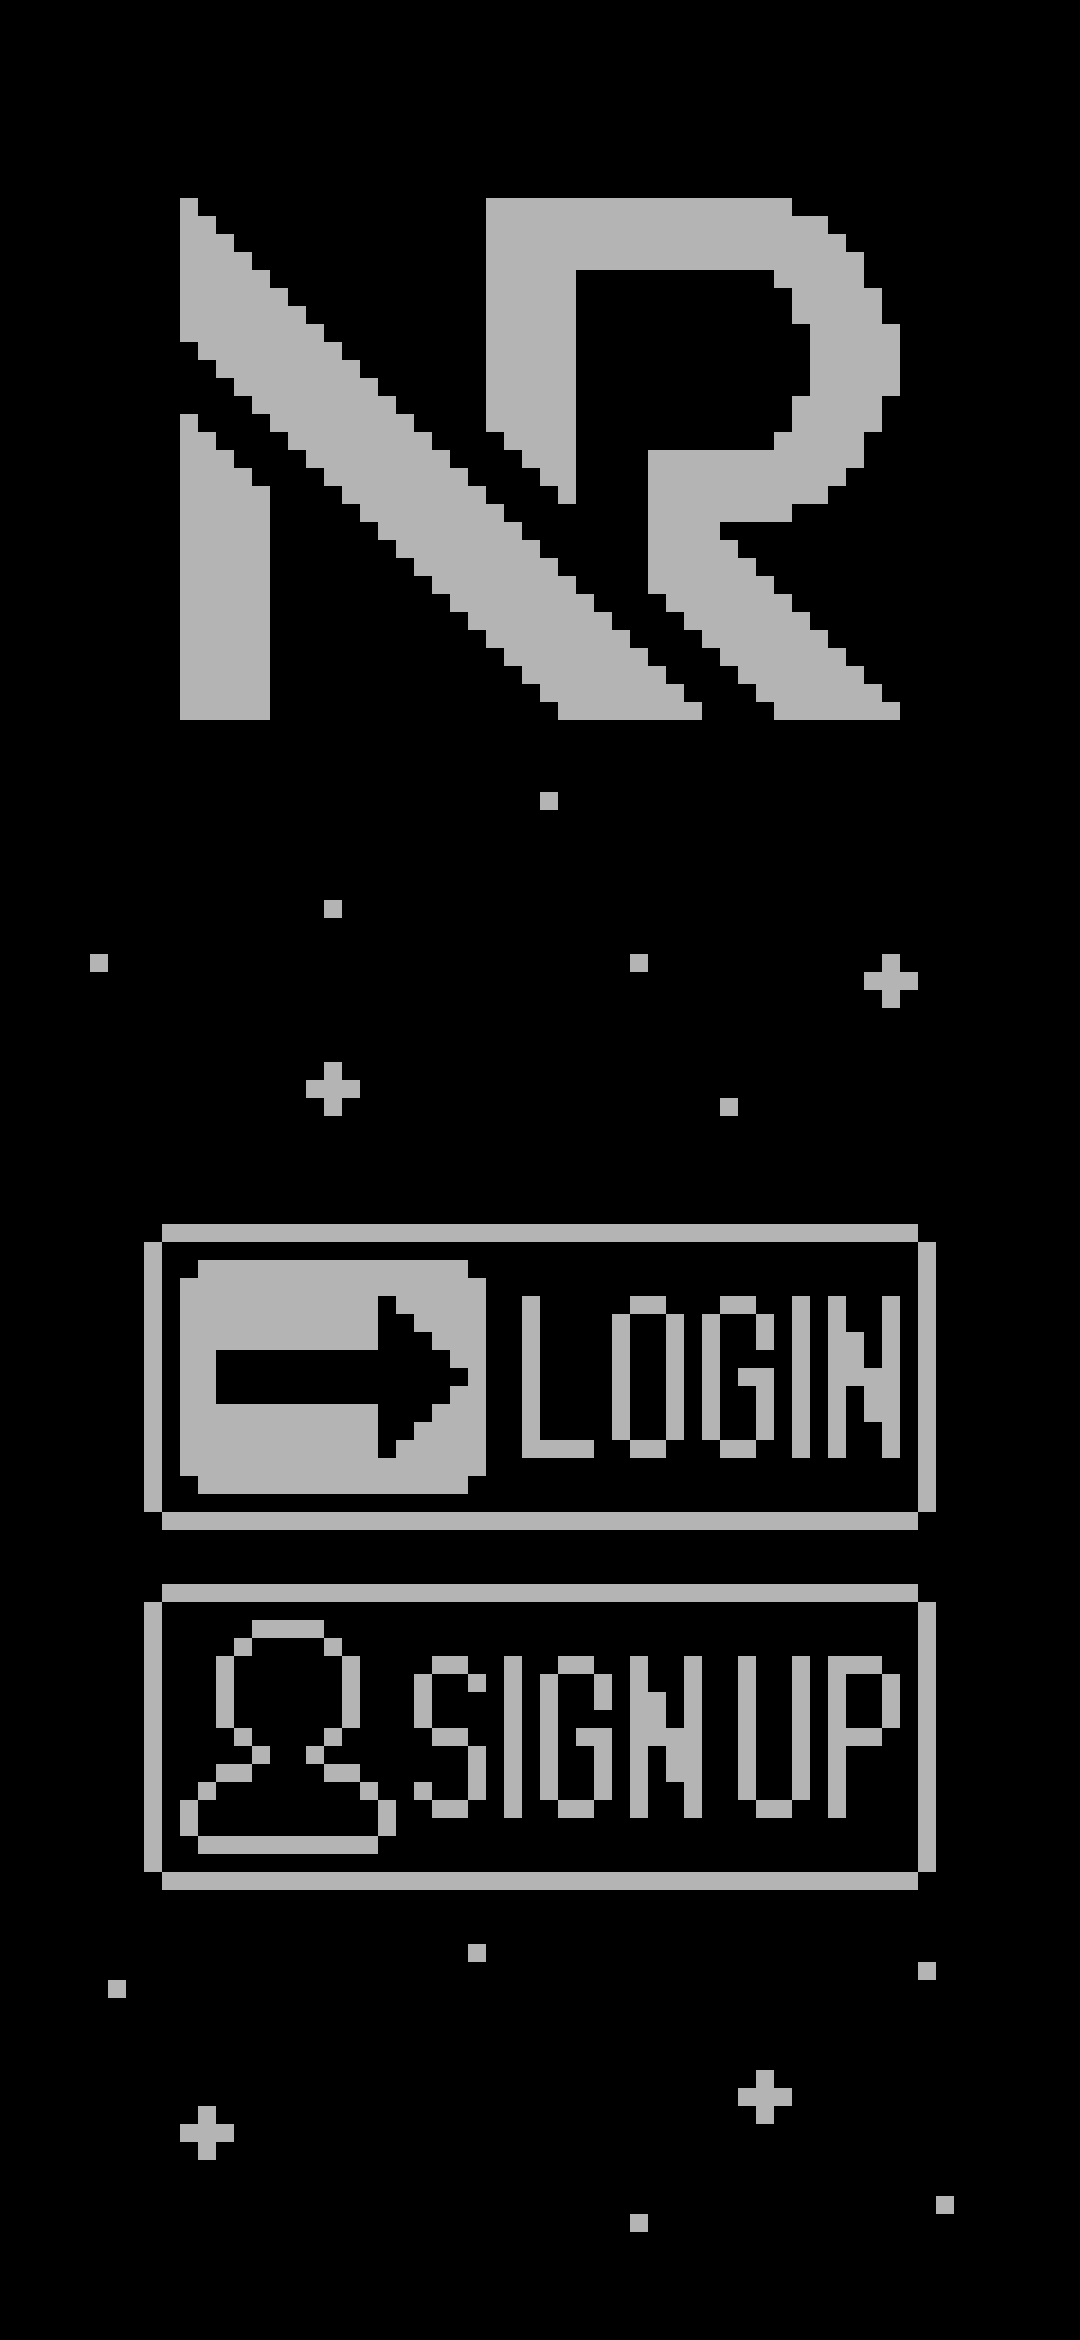
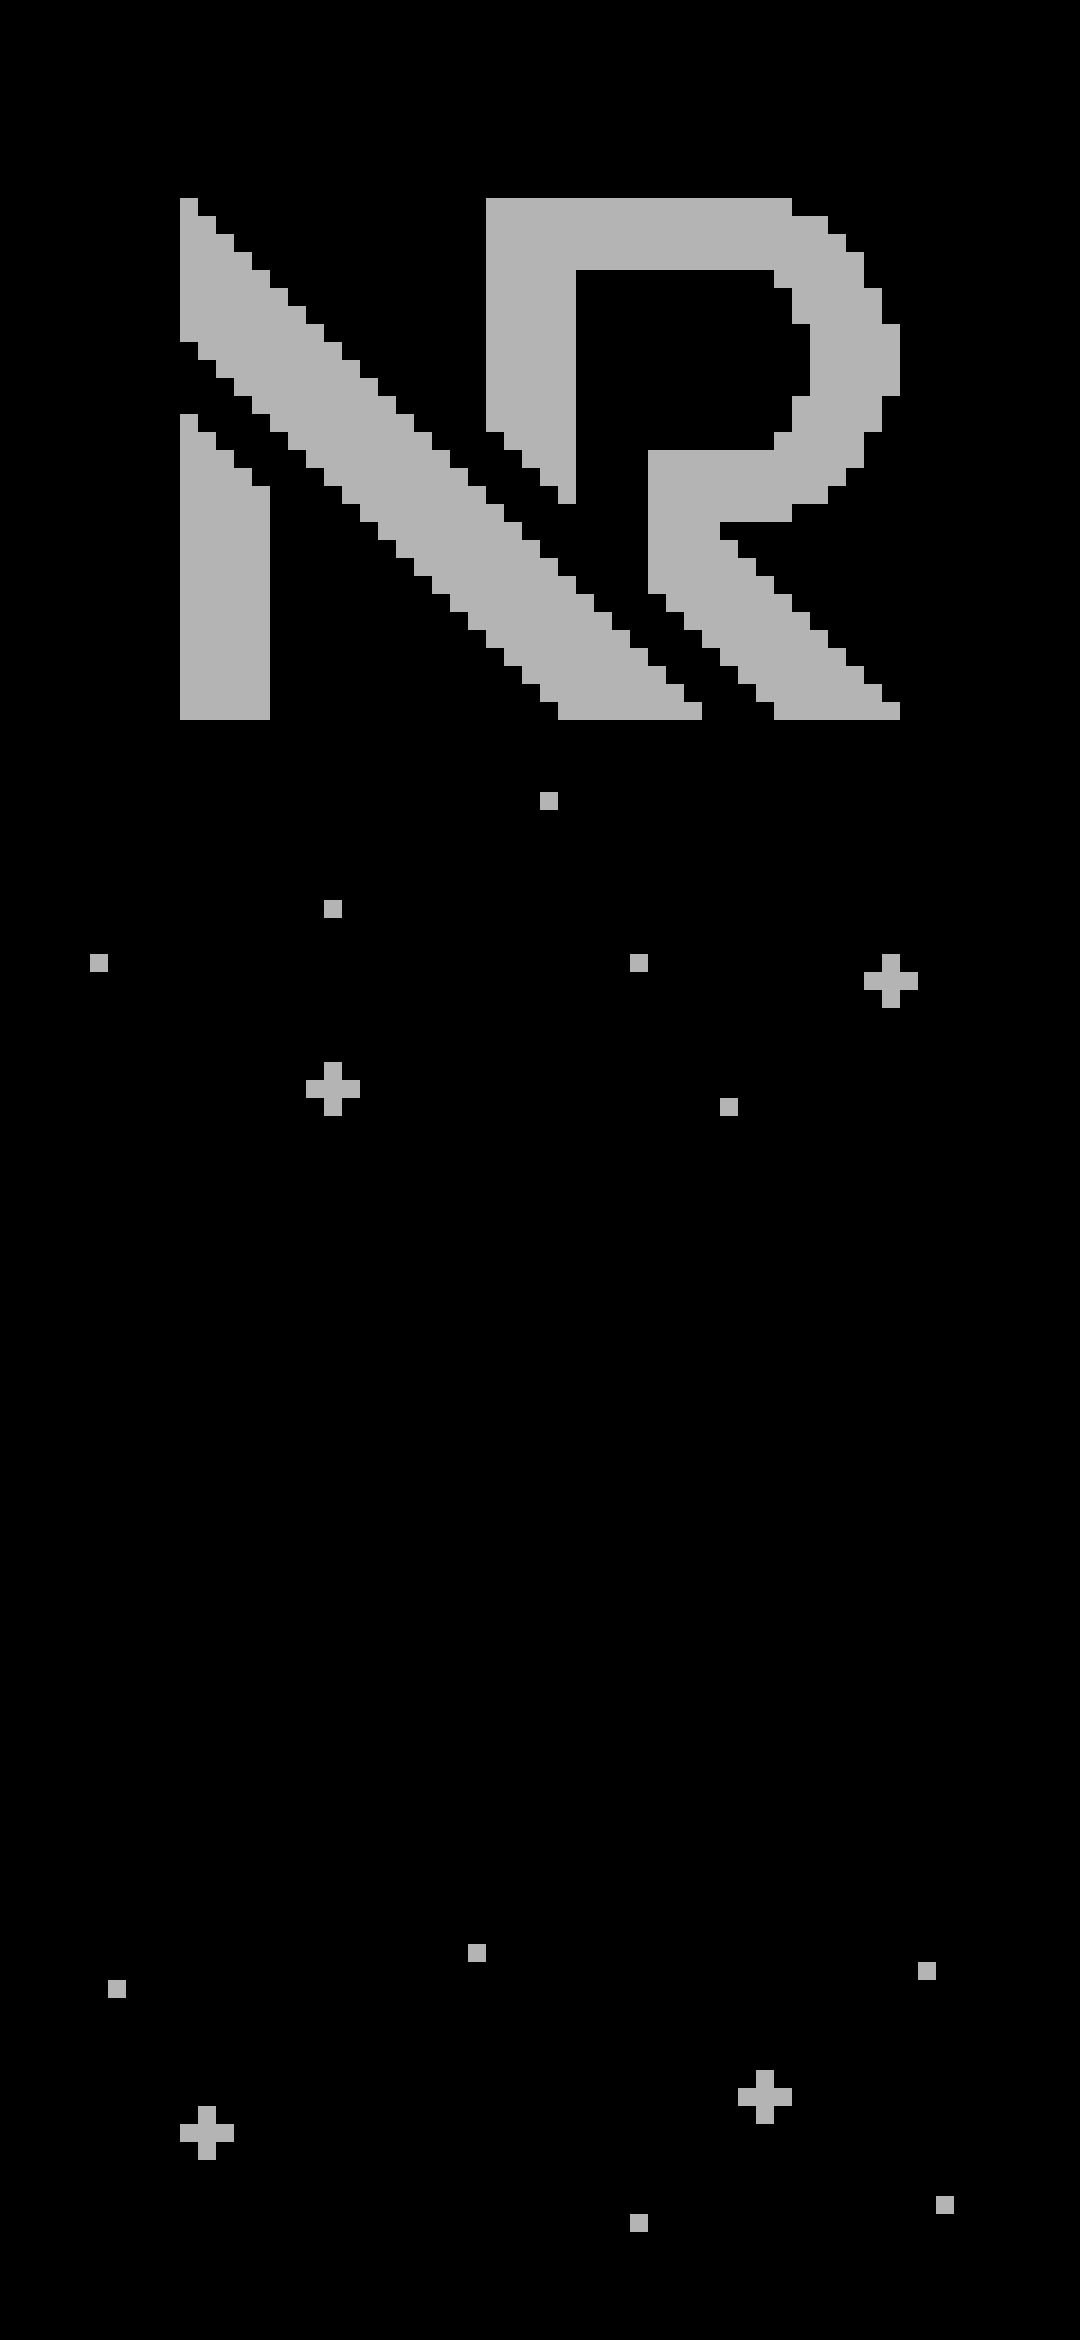
working on things

Changed region(s): [[0.1222, 0.4991, 0.8861, 0.8111]]

diff --git a/NonogramApp/Views/LevelSelectPage.xaml b/NonogramApp/Views/LevelSelectPage.xaml
@@ -10,19 +10,33 @@
     BackgroundImageSource="pixelbg.png"
     Shell.NavBarIsVisible="False">
     <VerticalStackLayout>
-        <Picker
-            Title="Joe Biden"
-            Margin="0,7,0,0"
-            FontSize="20"
-            HeightRequest="50"
-            HorizontalOptions="Center"
-            HorizontalTextAlignment="Center"
-            ItemsSource="{Binding SizeFilters}"
-            SelectedItem="{Binding SelectedSize}"
-            TextColor="White"
-            TitleColor="White"
-            VerticalOptions="Center"
-            WidthRequest="70" />
+        <Grid>
+            <CheckBox HorizontalOptions="Start" Color="#a9a9a9" IsChecked="{Binding ShowUncompletedLevels}"/>
+            <HorizontalStackLayout HorizontalOptions="End">
+                <Label Text="Filter by size:" TextColor="White" VerticalOptions="Center" Margin="0,8,8,0" FontSize="20"/>
+                <Border
+                    Margin="0,8,8,0"
+                    BackgroundColor="#a9a9a9"
+                    HeightRequest="28"
+                    HorizontalOptions="Center"
+                    StrokeShape="RoundRectangle 5,5,5,5"
+                    VerticalOptions="Center">
+                    <Picker
+                        Title="Joe Biden"
+                        Margin="0,7,0,0"
+                        FontSize="20"
+                        HeightRequest="50"
+                        HorizontalOptions="Center"
+                        HorizontalTextAlignment="Center"
+                        ItemsSource="{Binding SizeFilters}"
+                        SelectedItem="{Binding SelectedSize}"
+                        TextColor="White"
+                        TitleColor="White"
+                        VerticalOptions="Center"
+                        WidthRequest="70" />
+                </Border>
+            </HorizontalStackLayout>
+        </Grid>
         <ScrollView>
 
             <CollectionView
@@ -31,7 +45,7 @@
                 Grid.Column="0"
                 Grid.ColumnSpan="3"
                 Margin="3"
-                ItemsSource="{Binding FilterdLevels}"
+                ItemsSource="{Binding FilteredLevels}"
                 SelectedItem="{Binding SelectedLevel}"
                 SelectionMode="Single">
 
@@ -69,9 +83,22 @@
                                         </FormattedString>
                                     </Label.FormattedText>
                                 </Label>
-
                             </Grid>
-                        </Border>
+                            <VisualStateManager.VisualStateGroups>
+                                <VisualStateGroup>
+                                    <VisualState Name="Selected">
+                                        <VisualState.Setters>
+                                            <Setter Property="BackgroundColor" Value="Transparent"/>
+                                        </VisualState.Setters>
+                                    </VisualState>
+                                    <VisualState Name="Normal">
+                                        <VisualState.Setters>
+                                            <Setter Property="BackgroundColor" Value="Transparent"/>
+                                        </VisualState.Setters>
+                                    </VisualState>
+                                </VisualStateGroup>
+                            </VisualStateManager.VisualStateGroups>
+                         </Border>
                     </DataTemplate>
                 </CollectionView.ItemTemplate>
             </CollectionView>

diff --git a/NonogramApp/Views/LogoutPage.xaml b/NonogramApp/Views/LogoutPage.xaml
@@ -12,17 +12,31 @@
             IsAnimationPlaying="True"
             Source="congrats.png"
             WidthRequest="400" />
-        <Button
-            Grid.Row="1"
-            BackgroundColor="Red"
-            BorderColor="Yellow"
-            BorderWidth="5"
-            Command="{Binding LogoutCommand}"
-            FontSize="30"
-            HeightRequest="90"
-            Text="Log out"
-            TextColor="Yellow"
-            WidthRequest="300" />
+        <Grid Grid.Row="1">
+            <Border
+                HeightRequest="160"
+                StrokeShape="RoundRectangle 5,5,5,5"
+                StrokeThickness="0"
+                WidthRequest="160">
+                <Image
+                    Grid.Row="0"
+                    Grid.Column="0"
+                    HeightRequest="160"
+                    IsAnimationPlaying="True"
+                    Source="rainbowborder.gif"
+                    WidthRequest="160" />
+            </Border>
+            <Button
+                Grid.Row="1"
+                BackgroundColor="Red"
+                CornerRadius="5"
+                Command="{Binding LogoutCommand}"
+                FontSize="30"
+                HeightRequest="148"
+                Text="Log out"
+                TextColor="Yellow"
+                WidthRequest="148" />
+        </Grid>
         <Image
             Grid.RowSpan="3"
             IsAnimationPlaying="True"

diff --git a/NonogramApp/Views/WelcomePage.xaml b/NonogramApp/Views/WelcomePage.xaml
@@ -7,25 +7,23 @@
     BackgroundImageSource="homepagepixelbg.png"
     NavigationPage.HasNavigationBar="False">
     <Grid RowDefinitions="12*,3*,3.5*,4*">
-        <Button
+        <ImageButton
             Grid.Row="1"
             Margin="10"
-            BackgroundColor="Transparent"
-            BorderWidth="5"
+            Source="loginbutton.png"
             Command="{Binding LoginCommand}"
             CornerRadius="5"
-            HeightRequest="101"
+            HeightRequest="103"
             VerticalOptions="EndAndExpand"
-            WidthRequest="286" />
-        <Button
+            WidthRequest="260" />
+        <ImageButton
             Grid.Row="2"
             Margin="10"
-            BackgroundColor="Transparent"
-            BorderWidth="5"
+            Source="signupbutton.png"
             Command="{Binding SignupCommand}"
             CornerRadius="0"
-            HeightRequest="101"
+            HeightRequest="103"
             VerticalOptions="EndAndExpand"
-            WidthRequest="286" />
+            WidthRequest="260" />
     </Grid>
 </ContentPage>

diff --git a/NonogramApp/Views/Leaderboard.xaml b/NonogramApp/Views/Leaderboard.xaml
@@ -24,7 +24,7 @@
             Source="pixelbg.png"
             VerticalOptions="Fill" />
         <VerticalStackLayout Grid.Row="0" Grid.Column="0">
-            <Label Margin="3" HorizontalTextAlignment="Center">
+            <Label Margin="3,7,3,3" HorizontalTextAlignment="Center" FontSize="17">
                 <Label.FormattedText>
                     <FormattedString>
                         <Span
@@ -106,6 +106,7 @@
                     <DataTemplate>
                         <Border
                             Margin="20,2,20,0"
+                            StrokeThickness="1"
                             BackgroundColor="Black"
                             StrokeShape="RoundRectangle 5,5,5,5">
                             <Grid

diff --git a/NonogramApp/ViewModels/LevelSelectViewModel.cs b/NonogramApp/ViewModels/LevelSelectViewModel.cs
@@ -45,13 +45,13 @@ namespace NonogramApp.ViewModels
                 OnPropertyChanged();
             }
         }
-        private ObservableCollection<LevelDTO> filterdLevels;
-        public ObservableCollection<LevelDTO> FilterdLevels
+        private ObservableCollection<LevelDTO> filteredLevels;
+        public ObservableCollection<LevelDTO> FilteredLevels
         {
-            get => filterdLevels;
+            get => filteredLevels;
             set
             {
-                filterdLevels = value;
+                filteredLevels = value;
                 OnPropertyChanged();
             }
         }
@@ -93,11 +93,11 @@ namespace NonogramApp.ViewModels
         }
         public void Filterlevels()
         {
-            FilterdLevels = new ObservableCollection<LevelDTO>();
+            FilteredLevels = new ObservableCollection<LevelDTO>();
             foreach (LevelDTO l in levels)
             {
                 if (int.Parse((selectedSize.Substring(0, ((selectedSize.Length - 1) / 2)))) == l.Size)
-                    FilterdLevels.Add(l);
+                    FilteredLevels.Add(l);
             }
         }
         public ICommand GoToGameCommand { get; }

diff --git a/NonogramApp/ViewModels/GameViewModel.cs b/NonogramApp/ViewModels/GameViewModel.cs
@@ -617,7 +617,7 @@ namespace NonogramApp.ViewModels
         private async Task<bool> SaveProgress(bool haswon)
         {
             string layout = this.service.TileArrayToLayout(this.service.TileListToArray(Level.Size, Tiles));
-            ScoreDTO score = new ScoreDTO(((App)Application.Current).LoggedInUser.Id, Level.LevelId, layout, Time, haswon);
+            ScoreDTO score = new ScoreDTO(((App)Application.Current).LoggedInUser.Id, Level.LevelId, layout, Time+1, haswon);
             score = await this.service.AddScore(score);
             return true;
         }
